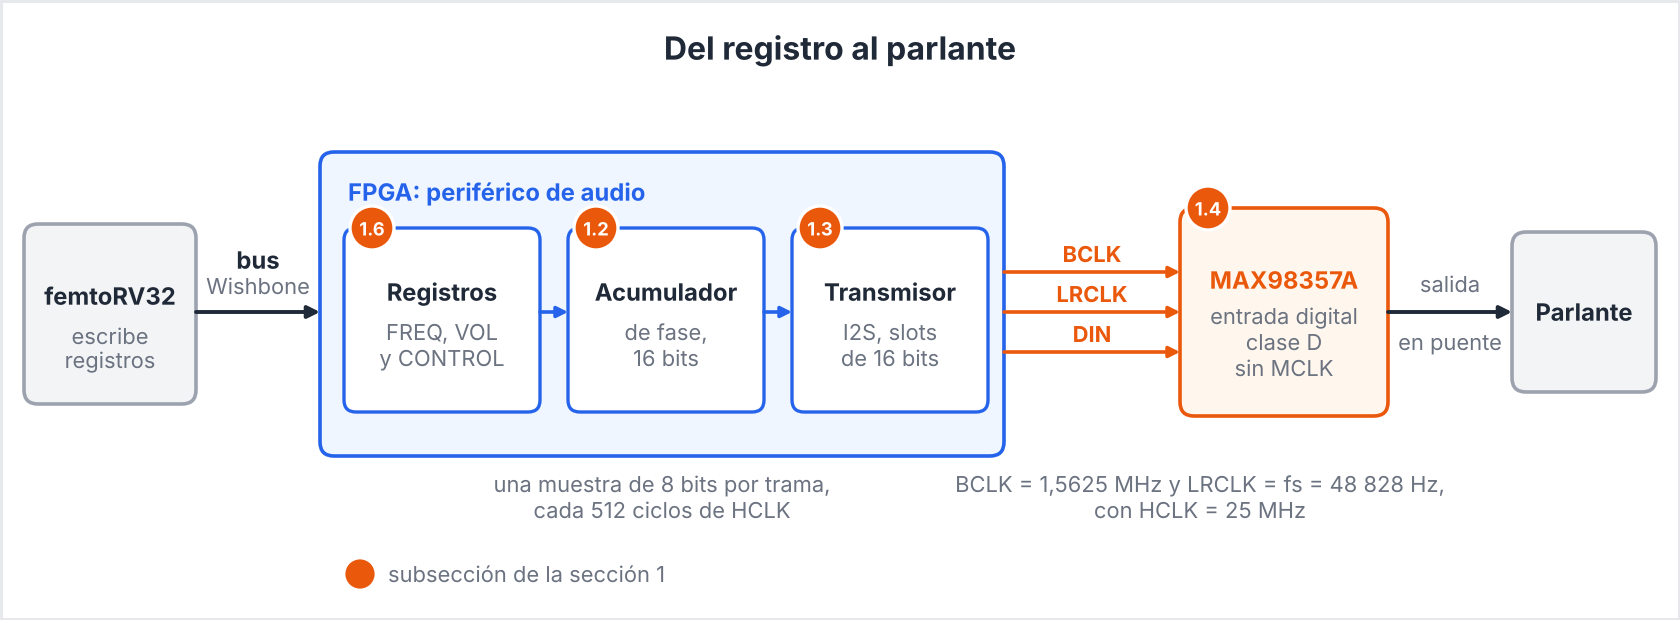
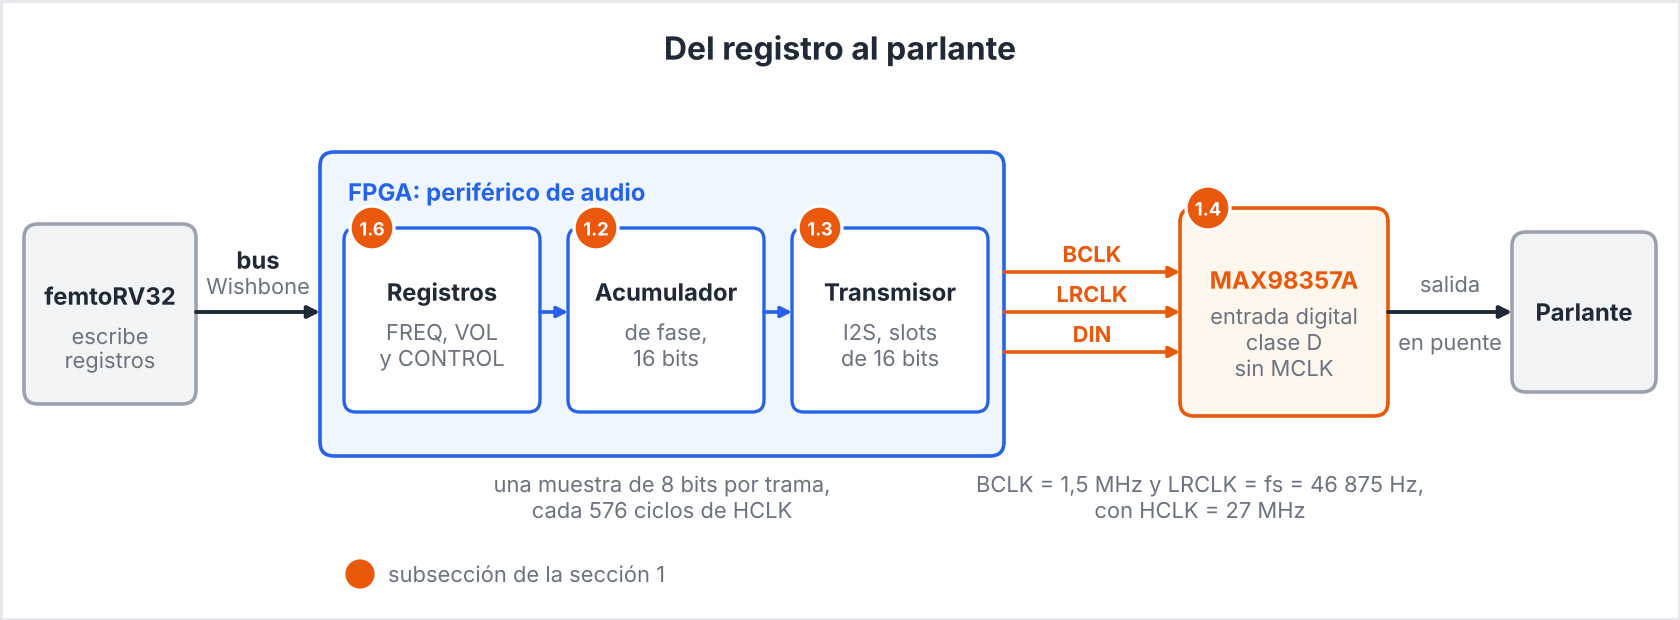
G5 audio: ASMD, control y ruta de datos, conexión al SoC y 27 MHz
ASMD del transmisor I2S dibujado a mano, con tabla de transferencias
T0 a T8 (3.6). Figura de unidad de control y ruta de datos (3.5).
Conexión al SoC: decodificador de región 0x0043, tiempos de un acceso
tomados de la simulación y por qué no hay START, BUSY ni DONE (3.2).

27 MHz (Tang Nano 9K) pasa a ser el reloj principal: FREQ = 615 para
La4. El testbench simula con 27 MHz (make sim25 para 25 MHz), mide el
tono en segundos y cuenta cuántas veces se ejecuta cada transferencia.
Bloques con los anchos del bus; justificación de ack.
Figuras renumeradas en orden de lectura (fig1 a fig12).

Changed region(s): [[0.5571, 0.7661, 0.8667, 0.8274], [0.3095, 0.7968, 0.4643, 0.8581]]

diff --git a/Grupos/G5/README.md b/Grupos/G5/README.md
@@ -133,6 +133,8 @@ En esta sección se documentarán los principales avances, implementaciones, pru
 | 2026-11-23 | James Velasquez Boyaca | Audio: etapa de diseño (3.1 a 3.6) con ocho figuras; sección 2 ajustada a 512 ciclos por trama. | Hecho |
 | 2026-11-23 | James Velasquez Boyaca | Audio: Verilog del periférico (4.1), un módulo por bloque. | Hecho |
 | 2026-11-23 | James Velasquez Boyaca | Audio: testbench con 7 casos, Makefile y vista de GTKWave (5.1); pasa con 25 y 27 MHz. | Hecho |
+| 2026-11-24 | James Velasquez Boyaca | Audio: ASMD dibujado a mano con tabla de transferencias, arquitectura de control y ruta de datos, conexión al SoC, 27 MHz como reloj principal y testbench con cobertura de T0 a T8. | Hecho |
+| 2026-11-24 | James Velasquez Boyaca | Audio: la caja negra de Andrés González se redibujó como figura 5 con las señales rd, d_out y ack; su versión original queda en el historial del repositorio. | Hecho |
 | 2026-11-09 | James Velásquez | Joystick · Crear la estructura de carpetas y el README del joystick. (`289c081`) | Hecho |
 | 2026-11-12 | jcastanedacr | Joystick · Agregar el fundamento inicial del joystick. (`eb45462`) | Hecho |
 | 2026-11-12 | jcastanedacr | Joystick · Integrar el fundamento en main mediante el PR #5. (`7d829f5`) | Hecho |
